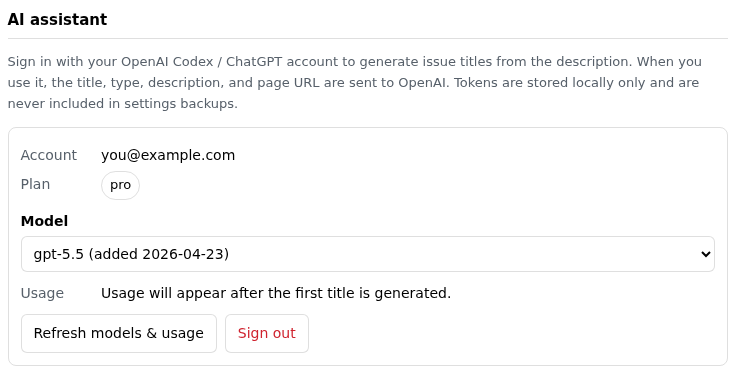
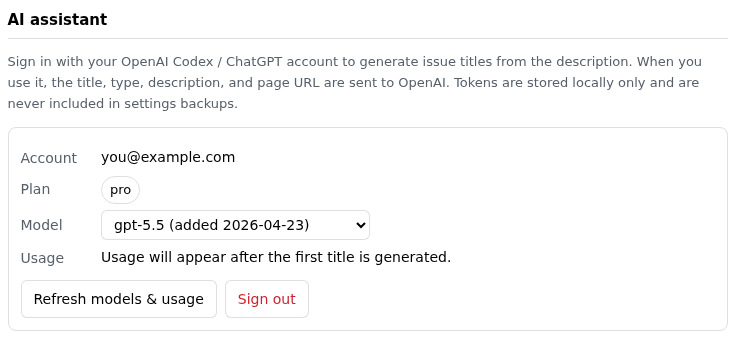
style(options): compact left-right Model row in the AI card
The model dropdown was a full-width control under a bold label, inconsistent with the
Account/Plan/Usage rows. Make it an .ai-row (muted label left, compact select right) and
drop the full-width select rule so the label colour and row layout match.

diff --git a/src/options.html b/src/options.html
@@ -43,10 +43,10 @@
     a { color: var(--accent); }
     .hidden { display: none; }
     .ai-card { border: 1px solid var(--border); border-radius: 8px; padding: 12px; margin-top: 10px; }
-    .ai-card select { width: 100%; max-width: none; }
     .ai-manual { border: 1px dashed var(--border); border-radius: 8px; padding: 12px; margin-top: 10px; }
-    .ai-row { margin: 4px 0; }
-    .ai-k { color: var(--muted); display: inline-block; min-width: 76px; }
+    .ai-row { margin: 6px 0; }
+    .ai-k { color: var(--muted); display: inline-block; min-width: 76px; vertical-align: middle; }
+    .ai-row select { width: auto; max-width: 340px; padding: 5px 8px; vertical-align: middle; }
     #aiStatus { font-size: 13px; margin-top: 8px; }
     #aiStatus.ok { color: var(--ok); }
     #aiStatus.error { color: var(--danger); }
@@ -109,9 +109,8 @@
     <div id="aiConnectedBox" class="ai-card hidden">
       <div class="ai-row"><span class="ai-k" data-i18n="aiAccount"></span> <span id="aiAccount"></span></div>
       <div class="ai-row"><span class="ai-k" data-i18n="aiPlan"></span> <span id="aiPlan" class="chip"></span></div>
-      <label for="aiModel" data-i18n="aiModel"></label>
-      <select id="aiModel"></select>
-      <div class="ai-row" style="margin-top:10px;"><span class="ai-k" data-i18n="aiUsage"></span> <span id="aiUsage"></span></div>
+      <div class="ai-row"><span class="ai-k" data-i18n="aiModel"></span> <select id="aiModel"></select></div>
+      <div class="ai-row"><span class="ai-k" data-i18n="aiUsage"></span> <span id="aiUsage"></span></div>
       <div class="row" style="margin-top:10px;">
         <button id="aiRefresh" data-i18n="aiRefresh"></button>
         <button id="aiSignOut" class="danger" data-i18n="aiSignOut"></button>
